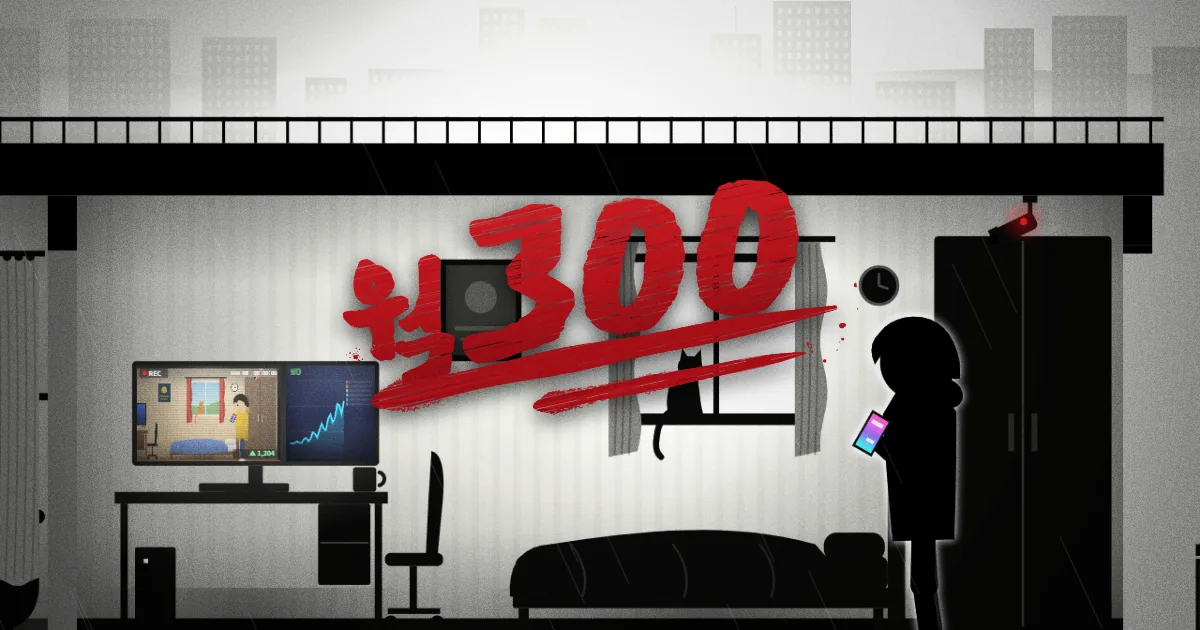
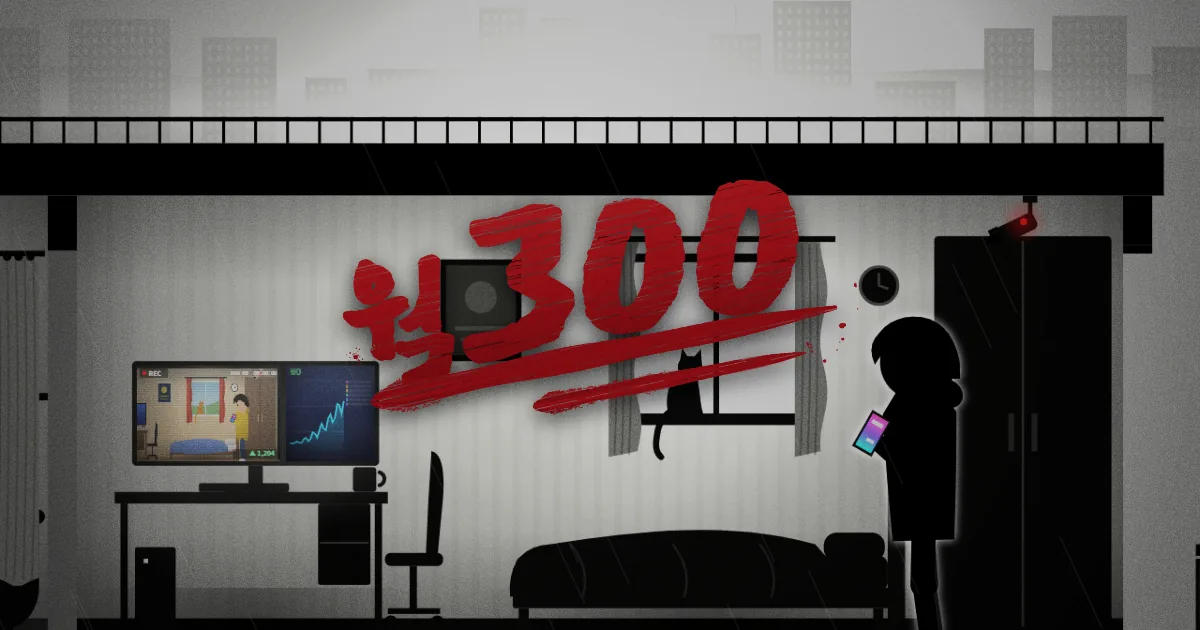
월300 표지·카드·미리보기 그림 한·영을 20% 어둡게(밝기 0.8), 그림 주소 ?v=3 (사장님 2026-09-26 "너무밝다 20%만 어둡게")

diff --git a/games/wol300/index.html b/games/wol300/index.html
@@ -24,7 +24,7 @@
 <meta property="og:title" content="월300 — 시뮬레이션게임·스토리게임·인디게임">
 <meta property="og:description" content="Ai에게 사생활데이터를 넘기고 기본소득300을 받아 생활하는 시뮬레이션게임 스토리게임. 오름게임즈가 만든 인디게임입니다. 자기의 사생활은 물론 길거리의 사람들을 찍어 AI 학습데이터 영상으로 팔아 3천만 원을 모읍니다.">
 <meta property="og:url" content="https://oreumgames.com/games/wol300/">
-<meta property="og:image" content="https://oreumgames.com/assets/wol300-og.webp?v=2">
+<meta property="og:image" content="https://oreumgames.com/assets/wol300-og.webp?v=3">
 <meta property="og:locale" content="ko_KR">
 <meta name="twitter:card" content="summary_large_image">
 
@@ -37,7 +37,7 @@
   "name": "월300",
   "alternateName": "300 A MONTH",
   "url": "https://oreumgames.com/games/wol300/",
-  "image": "https://oreumgames.com/assets/wol300-og.webp?v=2",
+  "image": "https://oreumgames.com/assets/wol300-og.webp?v=3",
   "description": "월300은 AI에게 사생활 데이터를 넘기고 한 달 기본소득 300만 원으로 사는 시뮬레이션게임이자 스토리게임입니다. 설치 없이 바로 하는 무료게임. 집 다섯 칸의 CCTV가 내 생활을 AI에 팔고, 라면 넘치기·의자 넘어지기 같은 사고와 골목 사람들을 캠코더로 찍은 영상은 AI 신선도 점수만큼 값이 붙습니다. 12달 안에 3천만 원을 모아 권총을 사고 CCTV를 모두 쏘면 엔딩입니다.",
   "applicationCategory": "GameApplication",
   "operatingSystem": "Web browser",
@@ -100,7 +100,7 @@
   <section class="showcase">
     <div class="wrap game-page">
       <a class="backlink" href="/games/">← 무료게임 목록</a>
-      <div class="gp-shot"><img src="/assets/wol300-shot.webp?v=2" alt="흑백으로 가라앉은 원룸 침실에 남자 실루엣과 창턱의 고양이, 모니터 화면만 컬러로 빛나고 그 위에 붉은 붓글씨로 월300 제목이 비스듬히 쓰여 있다" width="800" height="500"></div>
+      <div class="gp-shot"><img src="/assets/wol300-shot.webp?v=3" alt="흑백으로 가라앉은 원룸 침실에 남자 실루엣과 창턱의 고양이, 모니터 화면만 컬러로 빛나고 그 위에 붉은 붓글씨로 월300 제목이 비스듬히 쓰여 있다" width="800" height="500"></div>
       <h1>월300</h1>
       <p class="gp-cta"><a class="btn btn-primary" href="play/?v=20260926">🎮 바로 플레이</a></p>
       <p class="gp-line">월300은 AI에게 사생활 데이터를 넘기고 한 달 기본소득 300만 원으로 사는 시뮬레이션게임이자 스토리게임입니다. 설치 없이 웹에서 바로 하는 무료게임입니다.</p>

diff --git a/en/games/wol300/index.html b/en/games/wol300/index.html
@@ -24,7 +24,7 @@
 <meta property="og:title" content="300 A MONTH — simulation game, story game, indie game">
 <meta property="og:description" content="Sell your private life to an AI for a basic income of 3 million won a month. An indie game made by Oreum Games. Film your own private life, and the people on the street too, and sell it all to an AI as training footage to save 30 million won.">
 <meta property="og:url" content="https://oreumgames.com/en/games/wol300/">
-<meta property="og:image" content="https://oreumgames.com/assets/wol300-og-en.webp?v=2">
+<meta property="og:image" content="https://oreumgames.com/assets/wol300-og-en.webp?v=3">
 <meta property="og:locale" content="en_US">
 <meta name="twitter:card" content="summary_large_image">
 
@@ -37,7 +37,7 @@
   "name": "300 A MONTH",
   "alternateName": "월300",
   "url": "https://oreumgames.com/en/games/wol300/",
-  "image": "https://oreumgames.com/assets/wol300-og-en.webp?v=2",
+  "image": "https://oreumgames.com/assets/wol300-og-en.webp?v=3",
   "description": "300 A MONTH is a free simulation and story game about living on a basic income of 3 million won a month, paid for by letting an AI learn from your private life. Five CCTV cameras at home sell your daily routine; staged accidents and camcorder footage of strangers in the alley earn extra money based on how fresh the scene is to the AI. Save 30 million won within 12 months, buy a pistol and shoot every CCTV camera to reach the ending.",
   "applicationCategory": "GameApplication",
   "operatingSystem": "Web browser",
@@ -100,7 +100,7 @@
   <section class="showcase">
     <div class="wrap game-page">
       <a class="backlink" href="/en/games/">← All free games</a>
-      <div class="gp-shot"><img src="/assets/wol300-shot-en.webp?v=2" alt="A small bedroom drained to black and white, a man's silhouette and a cat on the windowsill, only the monitor glowing in color, with 300 A MONTH brushed across it in red" width="800" height="500"></div>
+      <div class="gp-shot"><img src="/assets/wol300-shot-en.webp?v=3" alt="A small bedroom drained to black and white, a man's silhouette and a cat on the windowsill, only the monitor glowing in color, with 300 A MONTH brushed across it in red" width="800" height="500"></div>
       <h1>300 A MONTH</h1>
       <p class="gp-cta"><a class="btn btn-primary" href="/games/wol300/play/?lang=en&amp;v=20260926">🎮 Play now</a></p>
       <p class="gp-line">300 A MONTH is a free simulation and story game about living on a basic income of 3 million won a month, paid for by letting an AI learn from your private life. It runs in your browser with nothing to install.</p>

diff --git a/index.html b/index.html
@@ -1140,7 +1140,7 @@
         "alternateName": "300 A MONTH",
         "url": "https://oreumgames.com/games/wol300/",
         "description": "월300은 AI에게 사생활 데이터를 넘기고 한 달 기본소득 300만 원으로 사는 시뮬레이션게임이자 스토리게임입니다.",
-        "image": "https://oreumgames.com/assets/wol300-og.webp?v=2",
+        "image": "https://oreumgames.com/assets/wol300-og.webp?v=3",
         "applicationCategory": "GameApplication",
         "operatingSystem": "Web browser",
         "datePublished": "2026-09-26",
@@ -1197,7 +1197,7 @@
       <div class="grid">
         <!-- CARDS:start -->
         <a class="mini" href="/games/wol300/">
-          <span class="shot"><img src="/assets/wol300-shot.webp?v=2" alt="흑백으로 가라앉은 원룸 침실에 남자 실루엣과 창턱의 고양이, 모니터 화면만 컬러로 빛나고 그 위에 붉은 붓글씨로 월300 제목이 비스듬히 쓰여 있다" width="800" height="500" loading="lazy"></span>
+          <span class="shot"><img src="/assets/wol300-shot.webp?v=3" alt="흑백으로 가라앉은 원룸 침실에 남자 실루엣과 창턱의 고양이, 모니터 화면만 컬러로 빛나고 그 위에 붉은 붓글씨로 월300 제목이 비스듬히 쓰여 있다" width="800" height="500" loading="lazy"></span>
           <span class="mbody"><b>월300</b><i>시뮬레이션게임 스토리게임</i></span>
         </a>
         <a class="mini" href="/games/fartlike/">

diff --git a/en/index.html b/en/index.html
@@ -1105,7 +1105,7 @@
         "alternateName": "월300",
         "url": "https://oreumgames.com/en/games/wol300/",
         "description": "A free simulation and story game in your browser: sell your private life to an AI for a basic income of 3 million won a month, and save 30 million won for a pistol.",
-        "image": "https://oreumgames.com/assets/wol300-og-en.webp?v=2",
+        "image": "https://oreumgames.com/assets/wol300-og-en.webp?v=3",
         "applicationCategory": "GameApplication",
         "operatingSystem": "Web browser",
         "datePublished": "2026-09-26",
@@ -1159,7 +1159,7 @@
       <div class="grid">
         <!-- CARDS:start -->
         <a class="mini" href="/en/games/wol300/">
-          <span class="shot"><img src="/assets/wol300-shot-en.webp?v=2" alt="A small bedroom drained to black and white, a man's silhouette and a cat on the windowsill, only the monitor glowing in color, with 300 A MONTH brushed across it in red" width="800" height="500" loading="lazy"></span>
+          <span class="shot"><img src="/assets/wol300-shot-en.webp?v=3" alt="A small bedroom drained to black and white, a man's silhouette and a cat on the windowsill, only the monitor glowing in color, with 300 A MONTH brushed across it in red" width="800" height="500" loading="lazy"></span>
           <span class="mbody"><b>300 A MONTH</b><i>Simulation game · Story game</i></span>
         </a>
         <a class="mini" href="/en/games/fartlike/">

diff --git a/games/index.html b/games/index.html
@@ -85,7 +85,7 @@
       <div class="grid">
         <!-- CARDS:start -->
         <a class="mini" href="/games/wol300/">
-          <span class="shot"><img src="/assets/wol300-shot.webp?v=2" alt="흑백으로 가라앉은 원룸 침실에 남자 실루엣과 창턱의 고양이, 모니터 화면만 컬러로 빛나고 그 위에 붉은 붓글씨로 월300 제목이 비스듬히 쓰여 있다" width="800" height="500" loading="lazy"></span>
+          <span class="shot"><img src="/assets/wol300-shot.webp?v=3" alt="흑백으로 가라앉은 원룸 침실에 남자 실루엣과 창턱의 고양이, 모니터 화면만 컬러로 빛나고 그 위에 붉은 붓글씨로 월300 제목이 비스듬히 쓰여 있다" width="800" height="500" loading="lazy"></span>
           <span class="mbody"><b>월300</b><i>시뮬레이션게임 스토리게임</i></span>
         </a>
         <a class="mini" href="/games/fartlike/">

diff --git a/en/games/index.html b/en/games/index.html
@@ -82,7 +82,7 @@
       <div class="grid">
         <!-- CARDS:start -->
         <a class="mini" href="/en/games/wol300/">
-          <span class="shot"><img src="/assets/wol300-shot-en.webp?v=2" alt="A small bedroom drained to black and white, a man's silhouette and a cat on the windowsill, only the monitor glowing in color, with 300 A MONTH brushed across it in red" width="800" height="500" loading="lazy"></span>
+          <span class="shot"><img src="/assets/wol300-shot-en.webp?v=3" alt="A small bedroom drained to black and white, a man's silhouette and a cat on the windowsill, only the monitor glowing in color, with 300 A MONTH brushed across it in red" width="800" height="500" loading="lazy"></span>
           <span class="mbody"><b>300 A MONTH</b><i>Simulation game · Story game</i></span>
         </a>
         <a class="mini" href="/en/games/fartlike/">
